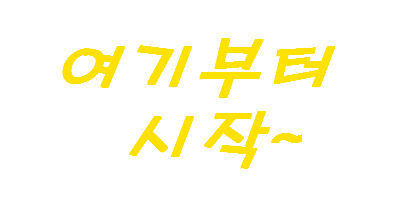
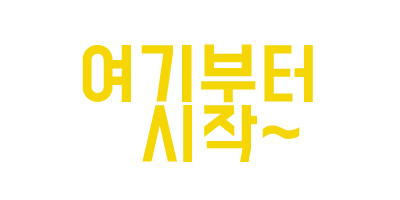
game3에 이미지 추가 game1: 여기부터 시작 image 폰트 제목과 통일화 / main.jsp는 해당 이미지 추가/ computer language css font size change

Changed region(s): [[0.15, 0.18, 0.84, 0.87]]

diff --git a/5bject/WebContent/stylesheet/computer_language.css b/5bject/WebContent/stylesheet/computer_language.css
@@ -63,7 +63,7 @@
 }
 
  #algo{
-	font-size: 8px;
+	font-size: 10px;
 	text-align: center;
 	margin-left: 40px;
 }
